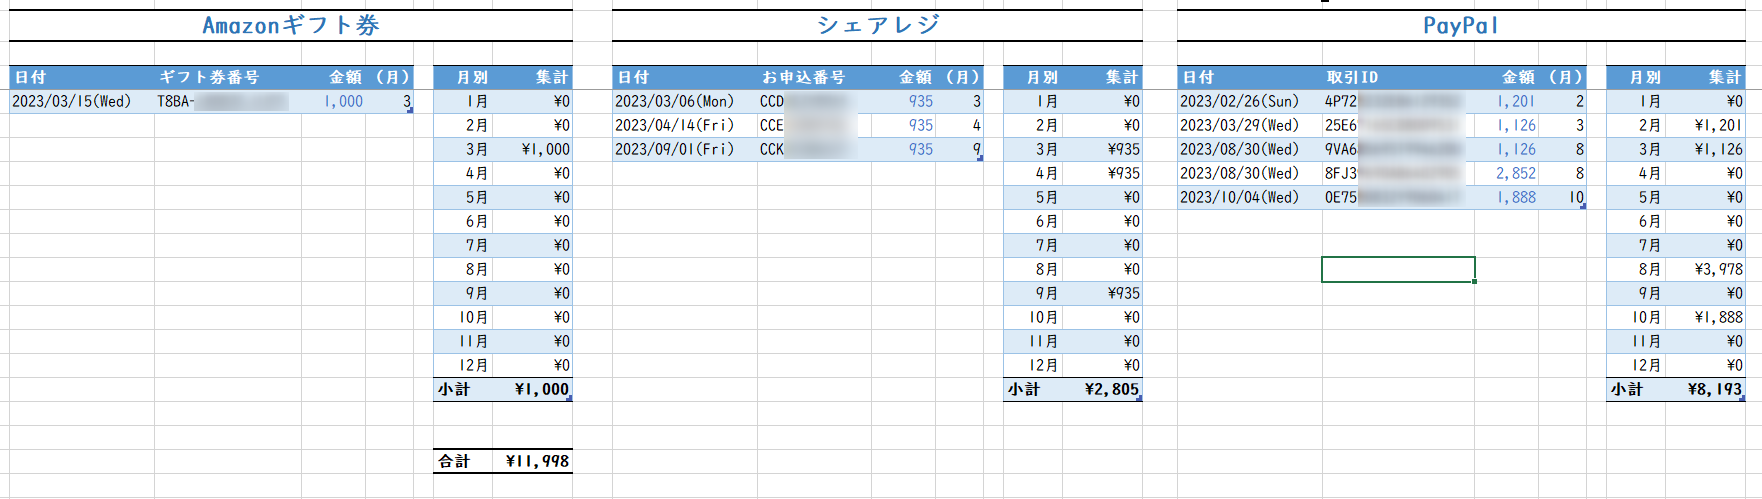
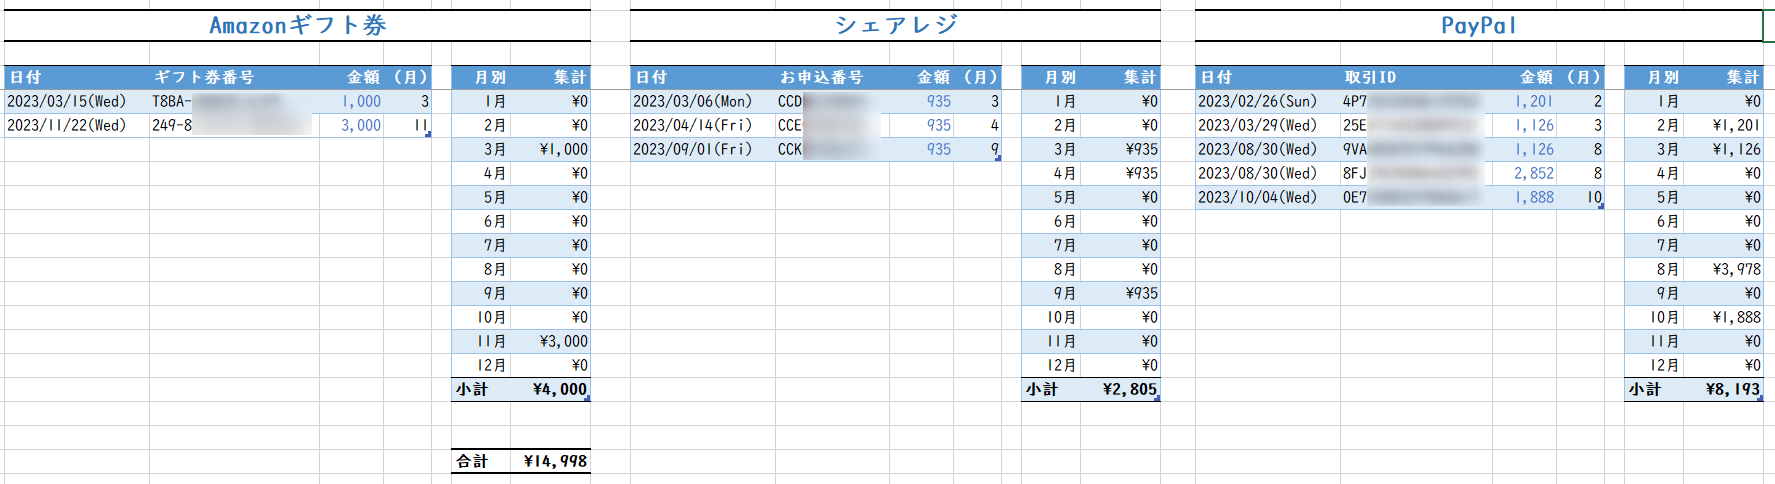
１１月分の寄付を追加

Changed region(s): [[0.0, 0.124, 1.0, 1.0], [0.0, 0.0, 1.0, 0.093]]

diff --git a/paster.htm b/paster.htm
@@ -523,7 +523,7 @@
 			<section class="content">
 				<h3 id="donation" class="heading">ドネーションウェアについて</h3>
 				<article class="grid" style="width:100%;">
-					<p><a href="images/paster_donation_2023.png" target="_blank">2023年（10月分まで）のご寄付</a> ／
+					<p><a href="images/paster_donation_2023.png" target="_blank">2023年（11月分まで）のご寄付</a> ／
 						<a href="images/paster_donation_2022.png" target="_blank">2022年のご寄付</a> ／<br>
 					</p>
 
